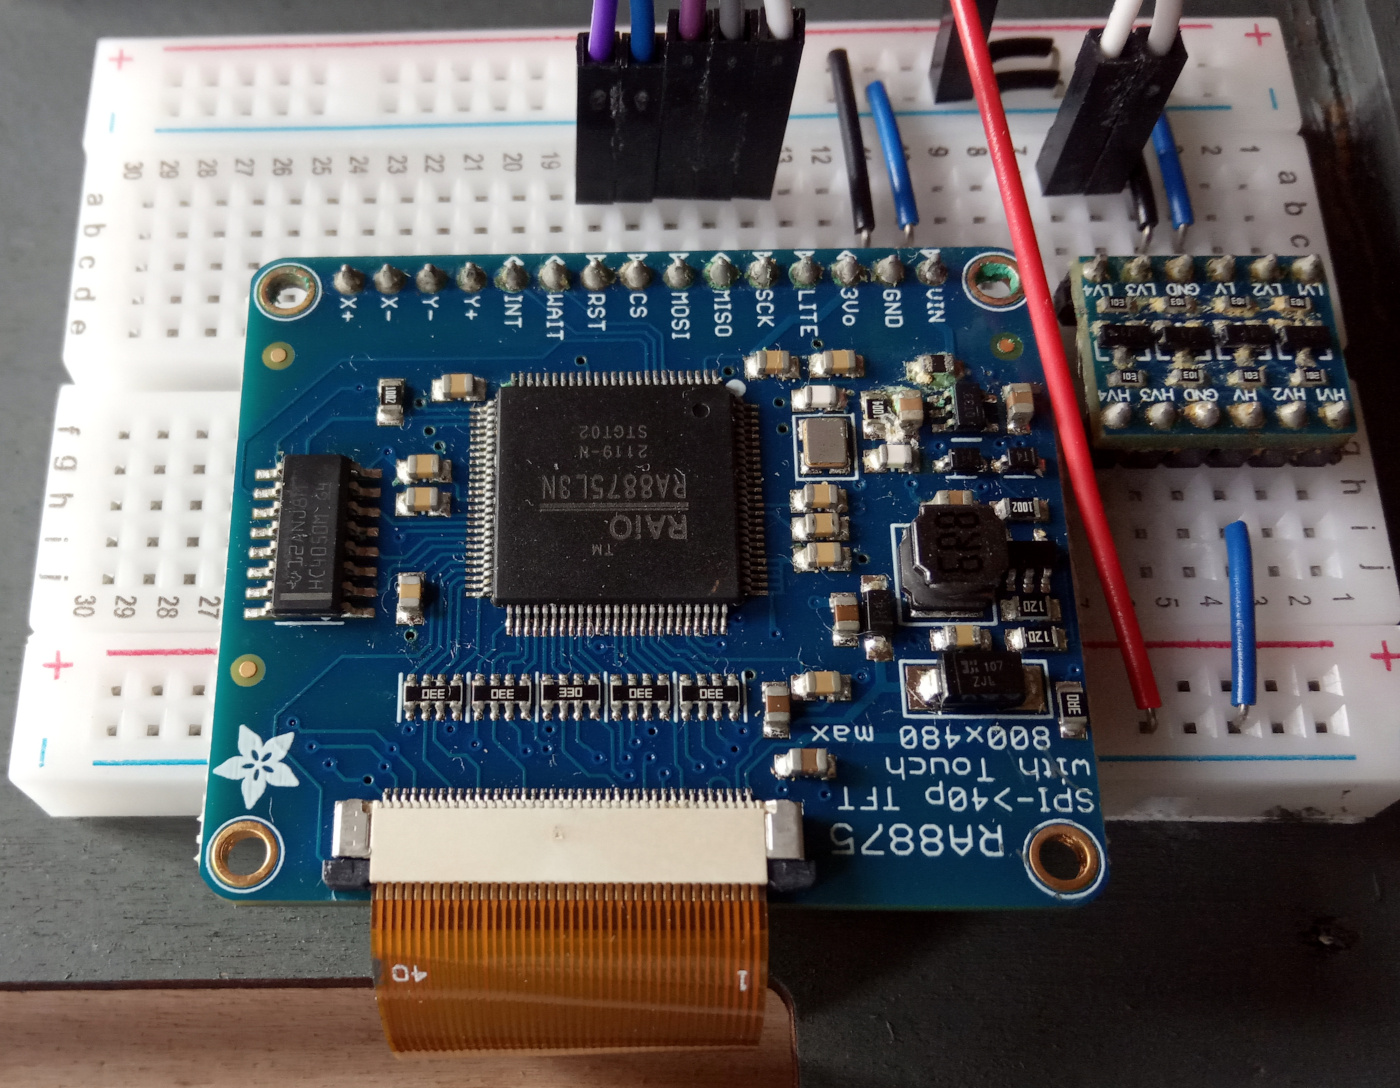
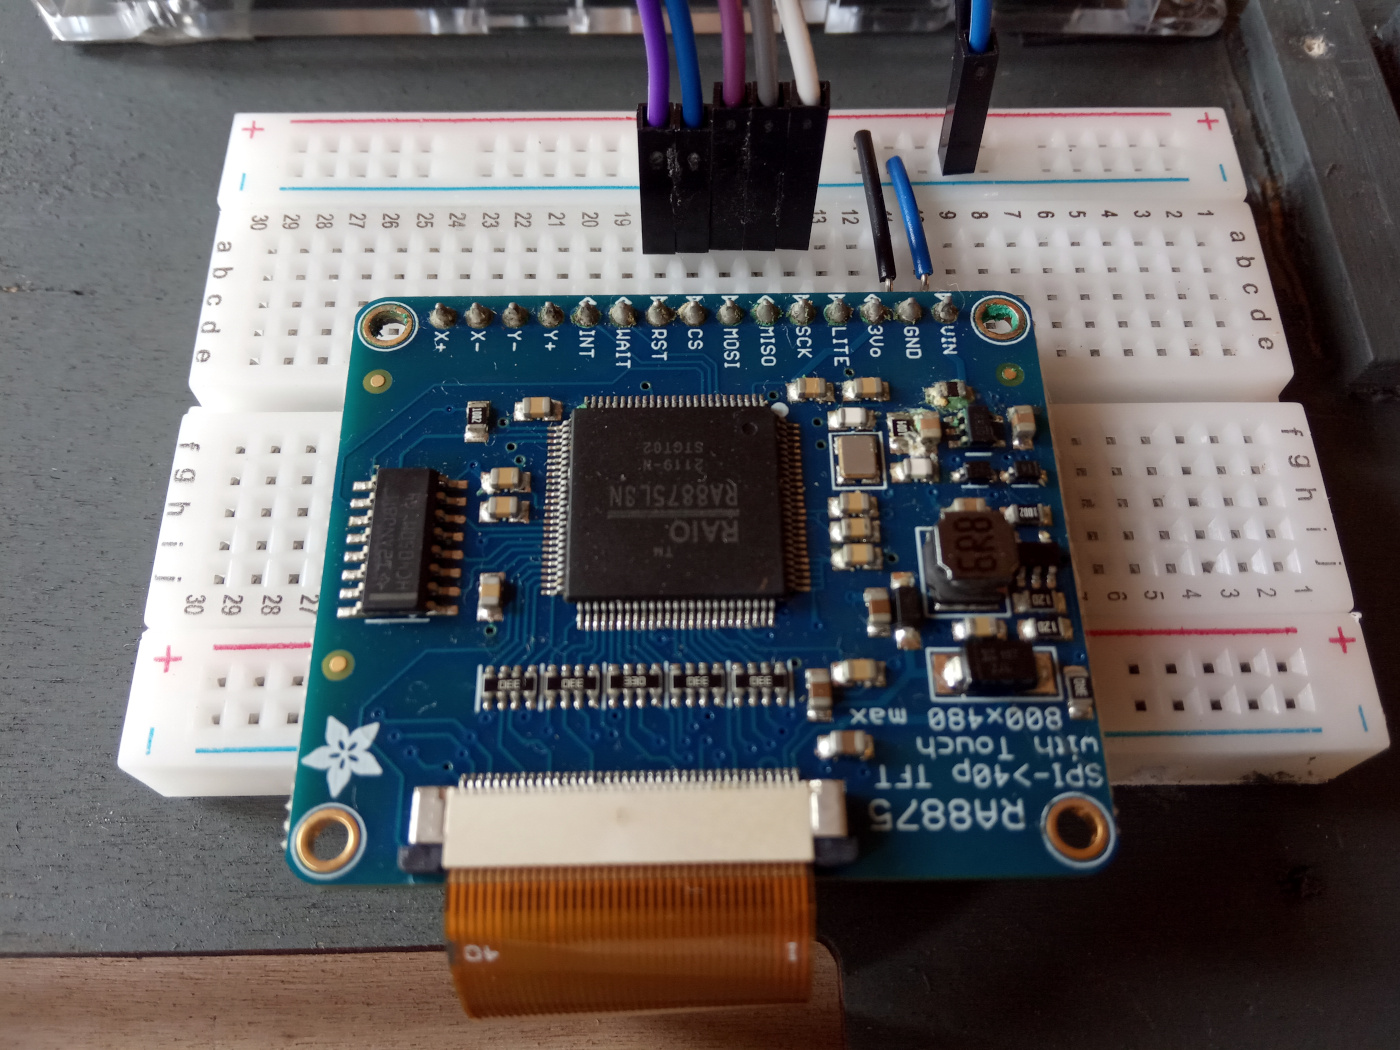
Improve the assembly instructions (using two steps, first the screen, then the keyboard, as in the book). Add missing pins in the Bill of Materials.

diff --git a/website/assembly.html b/website/assembly.html
@@ -32,20 +32,21 @@
       tutorials online, and practice with an empty perfboard first. To avoid having to buy a soldering station, go to a
       makerspace if you can. You can also get some advice there.
 
-    <h2>Connections to the Arduino</h2>
+    <h2>Connecting the screen</h2>
 
-    <p>Once the graphics card and the level converter are in place and soldered, connect them to the Arduino with jumper
-      wires as described in the book (in Figures 10.6 and 11.4), and as illustrated in the following photos.
+    <p>Once the graphics card is in place and soldered, connect it to the Arduino and to the screen with jumper
+      wires as described in the book (in Figures 10.6), and as illustrated in the following photos.
+
+    <h3>Connections to the Arduino</h3>
 
     <ul>
-      <li>Overview of the connections between the Arduino (top) and the graphics card (bottom left) and the level
-        converter (bottom right):
-        <a href="figures/overview.jpg"><img src="figures/overview.jpg" class="figure"></a>
+      <li>Overview of the connections between the Arduino (top) and the graphics card (bottom):
+        <a href="figures/overview0.jpg"><img src="figures/overview0.jpg" class="figure"></a>
       </li>
       <li>The connections on the Arduino side:
-        <a href="figures/arduino.jpg"><img src="figures/arduino.jpg" class="figure"></a>
+        <a href="figures/arduino0.jpg"><img src="figures/arduino0.jpg" class="figure"></a>
       </li>
-      <li>The connections on the graphics card (left) and level converter (right) side:
+      <li>The connections on the graphics card:
         <a href="figures/ra8875.jpg"><img src="figures/ra8875.jpg" class="figure"></a>
       </li>
       <li>A side view of the graphics card, showing the two partially cut header pins (right) used to maintain it
@@ -54,7 +55,7 @@
       </li>
     </ul>
 
-    <h2>Connections to the screen</h2>
+    <h3>Connections to the screen</h3>
 
     <p>Connect the 40-pin connector of the LCD panel to the graphics card as illustrated below (notice the "1" and "40"
       numbers). For this, slide out the black "ears" on each side of the white connector, insert the flat cable, and
@@ -62,12 +63,31 @@
 
       <a href="figures/ra8875.jpg"><img src="figures/ra8875.jpg" class="figure"></a>
 
-    <h2>Connections to the keyboard</h2>
+    <h2>Connecting the keyboard</h2>
 
-    <p>To connect the keyboard, use male-female jumper wires to connect the level converter to the PS/2 side of the
-      USB to PS/2 plug adapter provided with the keyboard, as shown in Figure 11.4 in the book.
+    <p>Once the level converter is in place and soldered, connect it to the Arduino and to the keyboard with jumper
+      wires as described in the book (in Figures 11.4), and as illustrated in the following photos.
 
-      <a href="figures/level-adapter.jpg"><img src="figures/level-adapter.jpg" class="figure"></a>
+    <h3>Connections to the Arduino</h3>
+
+    <ul>
+      <li>Overview of the connections between the Arduino (top) and the level converter (bottom right):
+        <a href="figures/overview.jpg"><img src="figures/overview.jpg" class="figure"></a>
+      </li>
+      <li>The connections on the Arduino side:
+        <a href="figures/arduino.jpg"><img src="figures/arduino.jpg" class="figure"></a>
+      </li>
+      <li>The connections on the level converter:
+        <a href="figures/level-converter.jpg"><img src="figures/level-converter.jpg" class="figure"></a>
+      </li>
+    </ul>
+
+    <h3>Connections to the keyboard</h3>
+
+    <p>Connect the level converter to the PS/2 side of the USB to PS/2 plug adapter provided with the keyboard, as shown
+      in Figure 11.4 in the book.
+
+      <a href="figures/plug-adapter.jpg"><img src="figures/plug-adapter.jpg" class="figure"></a>
 
     <p>The PS/2 pins are too close to connect them all with jumper wires. To solve this, remove the black plastic
       case around one of the wires (here the brown one, connected to the DATA pin; the black, red and orange wires are

diff --git a/scripts/README.html b/scripts/README.html
@@ -69,6 +69,37 @@
         followed by Enter. You should get a version number, such as "v1.1 Dec 15 2010 19:25:04". Finally, type
         <code>exit#</code> to quit the boot helper program.
 
+    <h2>Mac</h2>
+
+    <h3>pyserial</h3>
+
+    <p>Python3 should be installed by default on your computer. To install the <code>pyserial</code> package, first
+        install <a href="https://pip.pypa.io/en/stable/">pip</a> if it is not already installed. Then install the
+        <code>pyserial</code> package with
+
+    <blockquote>
+        pip install pyserial
+    </blockquote>
+
+    <h3>serial port</h3>
+
+    <p>Connect the Arduino's USB <em>native</em> port (see Figure 6.1 in the book) to your computer, and type
+
+    <blockquote>
+        ls /dev/tty.*
+    </blockquote>
+
+    <p>in a terminal. You should get a result such as <code>/dev/tty.usbmodem1101</code>. The number at the end might
+        differ. Then edit <code>boot_helper.py</code> with a text editor and replace <code>/dev/ttyACM0</code> (on
+        line 18) with the result you got. Finally, type
+
+    <blockquote>
+        python3 boot_helper.py
+    </blockquote>
+
+    <p>to test the connection to the Arduino. You should get a version number, such as "v1.1 Dec 15 2010 19:25:04".
+        Finally, type <code>exit#</code> to quit the boot helper program.
+
     <h2>Windows</h2>
 
     <h3>Python3</h3>

diff --git a/book/appendix.tex b/book/appendix.tex
@@ -44,6 +44,10 @@ access to a makerspace).
       \url{https://www.sparkfun.com/products/12009}}
     & \$4 \\ \hline
 
+    \makecell{Break Away Headers - Straight \\
+      \url{https://www.sparkfun.com/products/116}}
+    & \$2 \\ \hline
+
     \makecell{Half Sized Breadboard - 400 Tie Points \\
       \url{https://www.adafruit.com/product/64}}
     & \$5 \\ \hline
@@ -56,7 +60,7 @@ access to a makerspace).
       \url{https://www.adafruit.com/product/1953}}
     & \$2 \\ \hline
 
-    \makecell{\bfseries Total} & \makecell{\bfseries \$166} \\ \hline
+    \makecell{\bfseries Total} & \makecell{\bfseries \$168} \\ \hline
   \end{tabular}
   \caption{The Bill of Materials of our toy computer.}\label{table:bom}
 \end{Table}
